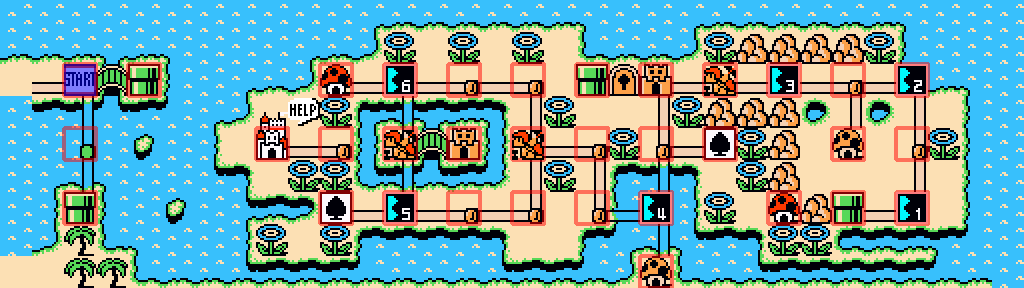
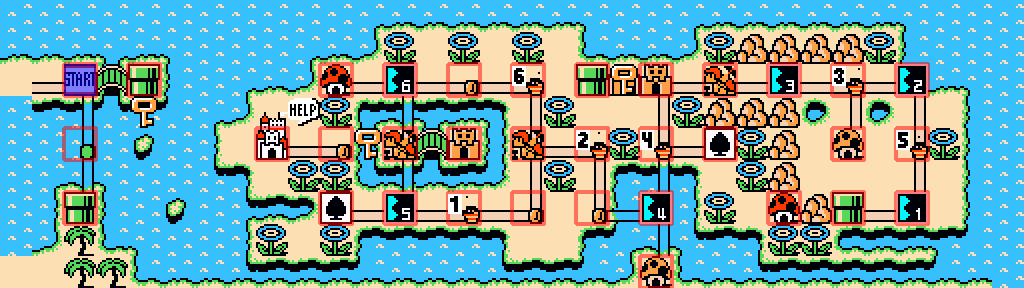
update world map drawing tests

diff --git a/foundry/game/level/test_level_drawing.py b/foundry/game/level/test_level_drawing.py
@@ -81,6 +81,13 @@ def test_world(world_info, qtbot):
     world_view = WorldView(None, level_ref, WorldContextMenu(level_ref))
     world_view.zoom_in()
 
+    world_view.draw_sprites = True
+    world_view.draw_level_pointers = True
+    world_view.draw_airship_points = True
+    world_view.draw_start = True
+    world_view.draw_locks = True
+    world_view.draw_pipes = True
+
     rect = QRect(QPoint(0, 0), QSize(*level_ref.level.size) * 16 * 2)
 
     world_view.setGeometry(rect)
